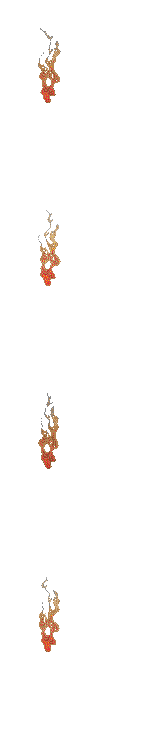
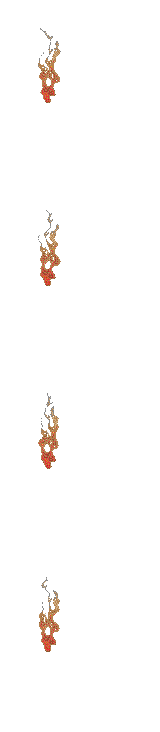
fix(explorer): steady bone-art lighting + kill loop ghost
User calls: bloom/halo/rim no longer flicker — static two-lobe bloom,
constant drop-shadow, skeletons carry one baked rim state (0.55) and
the flame frames share equal brightness so only the tails move. Ghost
fix: paired-percentage keyframes left 0.1% slivers where background-
position interpolated, flashing two half-cropped strip frames at once;
step-end timing holds exact frame values with no interpolation.

Changed region(s): [[0.25, 0.3005, 0.375, 0.3907], [0.25, 0.541, 0.375, 0.6612], [0.25, 0.8115, 0.375, 0.9016]]

diff --git a/assets/japanjunky-content.css b/assets/japanjunky-content.css
@@ -442,35 +442,14 @@
 .jj-explorer__bones--skele {
   height: auto;
   aspect-ratio: 160 / 183;
-  /* Bloom: firelight on the element's own background so it paints BEHIND
-     both sprite pseudo-layers. Two lobes — a hot amber core on the flame
-     (at ~29% 36% of the frame) and a wider red wash reaching down-right
-     into the gap toward the skeletons. Both fade out before the element
-     edges (no hard clip). Flickers in hard holds synced to the flame
-     frames; alphas track the baked brightness swing. */
-  animation: jj-bones-bloom 0.64s infinite;
-}
-@keyframes jj-bones-bloom {
-  0%, 24.9% { /* base */
-    background:
-      radial-gradient(ellipse 26% 28% at 29% 36%, rgba(255, 170, 0, 0.30), rgba(232, 49, 58, 0.16) 55%, transparent 100%),
-      radial-gradient(ellipse 40% 42% at 42% 52%, rgba(232, 49, 58, 0.13), transparent 100%);
-  }
-  25%, 49.9% { /* flare */
-    background:
-      radial-gradient(ellipse 30% 33% at 29% 36%, rgba(255, 170, 0, 0.44), rgba(232, 49, 58, 0.24) 55%, transparent 100%),
-      radial-gradient(ellipse 46% 47% at 43% 53%, rgba(232, 49, 58, 0.20), transparent 100%);
-  }
-  50%, 74.9% { /* dim */
-    background:
-      radial-gradient(ellipse 24% 26% at 29% 36%, rgba(255, 170, 0, 0.22), rgba(232, 49, 58, 0.12) 55%, transparent 100%),
-      radial-gradient(ellipse 37% 39% at 42% 52%, rgba(232, 49, 58, 0.09), transparent 100%);
-  }
-  75%, 100% { /* mid */
-    background:
-      radial-gradient(ellipse 28% 30% at 29% 36%, rgba(255, 170, 0, 0.36), rgba(232, 49, 58, 0.19) 55%, transparent 100%),
-      radial-gradient(ellipse 43% 44% at 42% 52%, rgba(232, 49, 58, 0.16), transparent 100%);
-  }
+  /* Bloom: STEADY firelight (user call — no flicker) on the element's own
+     background so it paints BEHIND both sprite pseudo-layers. Two lobes —
+     a hot amber core on the flame (at ~29% 36% of the frame) and a wider
+     red wash reaching down-right into the gap toward the skeletons. Both
+     fade out before the element edges (bigger = hard clip line). */
+  background:
+    radial-gradient(ellipse 28% 30% at 29% 36%, rgba(255, 170, 0, 0.36), rgba(232, 49, 58, 0.19) 55%, transparent 100%),
+    radial-gradient(ellipse 43% 44% at 42% 52%, rgba(232, 49, 58, 0.16), transparent 100%);
 }
 .jj-explorer__bones--skele::before,
 .jj-explorer__bones--skele::after {
@@ -479,40 +458,25 @@
   inset: 0;
   background-repeat: no-repeat;
 }
-.jj-explorer__bones--skele::after { /* skeletons: 2-frame rim light */
+.jj-explorer__bones--skele::after { /* skeletons: one steady rim-light state */
   background-image: var(--jj-bones-skel-img);
-  background-size: 100% 200%;
-  animation: jj-bones-rim 0.48s infinite;
-  animation-delay: -0.24s; /* flare drifts against the flame frames */
+  background-size: 100% 100%;
 }
-.jj-explorer__bones--skele::before { /* flame: 4 wave frames + halo flicker */
+.jj-explorer__bones--skele::before { /* flame: 4 wave frames, steady halo */
   background-image: var(--jj-bones-flame-img);
   background-size: 100% 400%;
-  animation: jj-bones-flame 0.64s infinite;
+  filter: drop-shadow(0 0 5px rgba(255, 170, 0, 0.7));
+  /* step-end: value HOLDS through each segment and jumps exactly at the
+     keyframe — background-position must never interpolate, a sliding
+     position shows two half-cropped strip frames at once (the ghost
+     "copy" that flashed at the loop point). */
+  animation: jj-bones-flame 0.64s step-end infinite;
 }
-@keyframes jj-bones-rim {
-  0%, 49.9% { background-position: 0 0; }
-  50%, 100% { background-position: 0 100%; }
-}
-/* 4 frames = phase quarter-steps of the baked tail wave (seamless loop);
-   halo tracks the baked brightness swing (1.0 / 1.12 / 0.95 / 1.06). */
 @keyframes jj-bones-flame {
-  0%, 24.9% {
-    background-position: 0 0;
-    filter: drop-shadow(0 0 4px rgba(255, 170, 0, 0.55));
-  }
-  25%, 49.9% {
-    background-position: 0 33.33%;
-    filter: drop-shadow(0 0 7px rgba(255, 170, 0, 0.85));
-  }
-  50%, 74.9% {
-    background-position: 0 66.67%;
-    filter: drop-shadow(0 0 3px rgba(232, 49, 58, 0.5));
-  }
-  75%, 100% {
-    background-position: 0 100%;
-    filter: drop-shadow(0 0 5px rgba(255, 170, 0, 0.7));
-  }
+  0%   { background-position: 0 0; }
+  25%  { background-position: 0 33.33%; }
+  50%  { background-position: 0 66.67%; }
+  75%  { background-position: 0 100%; }
 }
 .jj-explorer__panel,
 .jj-explorer__main,